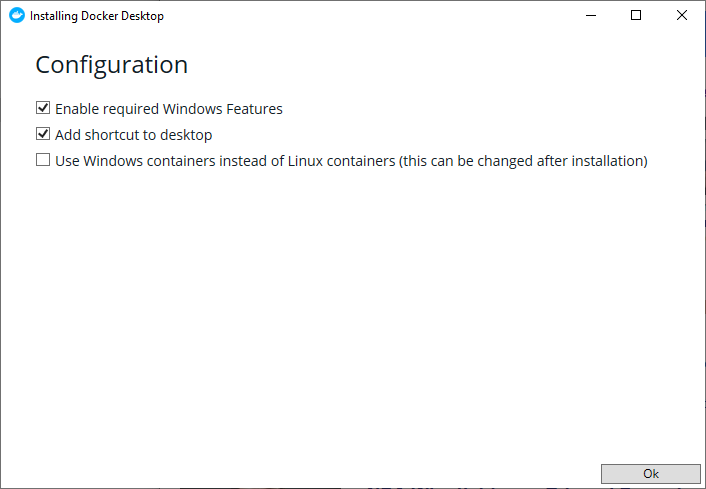
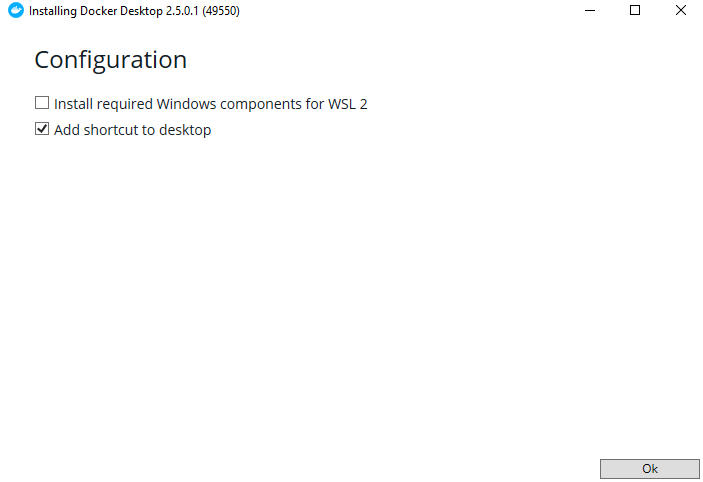
more changes for fall 2020

diff --git a/How to/meet_your_neato.md b/How to/meet_your_neato.md
@@ -27,6 +27,8 @@ ROS supports several programming languages out of the box, including C++, Python
 
 ## Docker Setup
 
+> Note: when installing Docker, you will have the option to use Docker with Windows Subsystem for Linux 2 (WSL2).  We recommend that you use Docker with the Hyper-V backend, rather than with WSL2.  You can easily switch back-and-forth between the two if you'd like, but we've found the WSL2 backend to be unstable in our testing.
+
 ### Highly Recommended Pre-Install Instructions
 
 For lots of folks, you will be able to skip this step, but we have noticed that some of the student Dell laptops will not be able to complete the Docker install process without doing these steps.  In any case, these steps do not hurt to do even if you could have gone through the installation without performing them.  As a result, we encourage you to do them.  If you are interested in why we have to do this, you can check out the Docker help article [Manually Enable Docker for Windows Prerequisites](https://success.docker.com/article/manually-enable-docker-for-windows-prerequisites).
@@ -52,7 +54,7 @@ You will likely need to restart your computer after completing these steps. Once
 
 The only operating systems officially supported by ROS are Ubuntu and Debian (although recently Windows support has been introduced, but it is not straightforward to use).  By using a virtual machine we can run an Ubuntu machine from within your Windows setup, which will allow us to run ROS.  The tool we will be using to accomplish this is called Docker.  Docker will allow us to get the QEA robot software installed on your machine in a relatively painless manner (avoiding the need to install and configure a bunch of software packages yourself).
 
-To install Docker, download and run the installer from [DockerHub](https://hub.docker.com/editions/community/docker-ce-desktop-windows/) by clicking the "Get Docker" link. When you see two checkboxes, leave both as is; do not check the third option. You want to run Docker with Linux containers, not Windows containers, so that we can use Docker to run Linux code. Your selections will look like this (depending on how your machine is configured, you may not see the option regarding WSL2).
+To install Docker, download and run the installer from [DockerHub](https://hub.docker.com/editions/community/docker-ce-desktop-windows/) by clicking the "Get Docker" link. When you see two checkboxes, leave both as is; do not check the third option. You want to run Docker with Linux containers, not Windows containers, so that we can use Docker to run Linux code. Your selections will look like this (note: as mentioned earlier, we recommend not installing the WSL2 components because we found Docker with WSL2 to be unstable in our testing).
 
 <p align="center">
 <img alt="The docker installer with the first two checkboxes selected" src="Pictures/dockerconfig.png" width="80%"/>
@@ -117,6 +119,10 @@ Before programming the robot in MATLAB, you will need to have the appropriate MA
 * If you are using MATLAB R2020a or later, you want the ROS Toolbox.
 
 To install additional toolboxes into your MATLAB environment, follow the [instructions on the IT Wiki for installing MATLAB](http://wikis.olin.edu/it/doku.php?id=matlab).  When running the MATLAB installer, make sure to select the appropriate toolbox for the robot (depending on your MATLAB version as described above).
+
+### Troubleshooting Toolbox Installation
+
+If you need to install the ROS Toolbox, sometimes MATALB will try to install it without running the full MATLAB installer.  If this process fails, we recommend installing the toolbox through the MATLAB installer.  Follow Olin IT's instructions, linked above, to run the installer.
 
 ## Connecting to the Physical Neatos
 
@@ -236,6 +242,46 @@ http://localhost:8080
 A browser window should open and display the following visualization of your robot.
 
 ![A visualization of a Neato in the gauntlet world](Pictures/gauntlet_screenshot.png)
+
+### Testing Your Setup
+
+> Note for Fall 2020 QEA Students: even though we are having you test the robot setup, this test will ensure that your setup will work with everything we are going to do in the boats module.
+
+If the visualiation appeared, the next thing you should do is make sure that you can interact with the robot.  Add the ``Robots`` directory to your path and run the ``teleopAndVisualizer`` script.
+
+```MATLAB
+>> addpath('Robots/')
+>> teleopAndVisualizer
+```
+
+You should see a MATLAB figure come up that looks like this.
+
+<div align="center">
+<img src="Pictures/teleop_and_visualizer.png" width="70%" alt="A visualization of the laser scan data in the Gauntlet world."/>
+</div>
+
+Next, click on the figure window and drive the robot around using your keyboard (``i`` goes forward, ``j`` turns left, ``k`` stops, and ``l`` turns right).  If you are able to move the robot and you see the figure window shown above, then congratulations your setup is working!
+
+If you are doing this as part of the boats module, you can go ahead and shutdown the simulator by running the following command.
+
+```MATLAB
+>> qeasim stop
+```
+
+You should see the following output.
+
+```MATLAB
+Making sure docker is running
+Docker is ready
+Shutting down MATLAB ROS Node in case it is running
+This might take up to 30 seconds
+Shutting down global node /matlab_global_node_07608 with NodeURI http://host.docker.internal:64396/
+Shutting down docker container in case it is running
+You will have to manually close any simulator visualizations in your browser
+ROS simulator has been succcessfully shutdown
+```
+
+> Note for Fall 2020 QEA students: there's no need to go any further in this document at this time.
 
 ## Programming Your Robot
 
